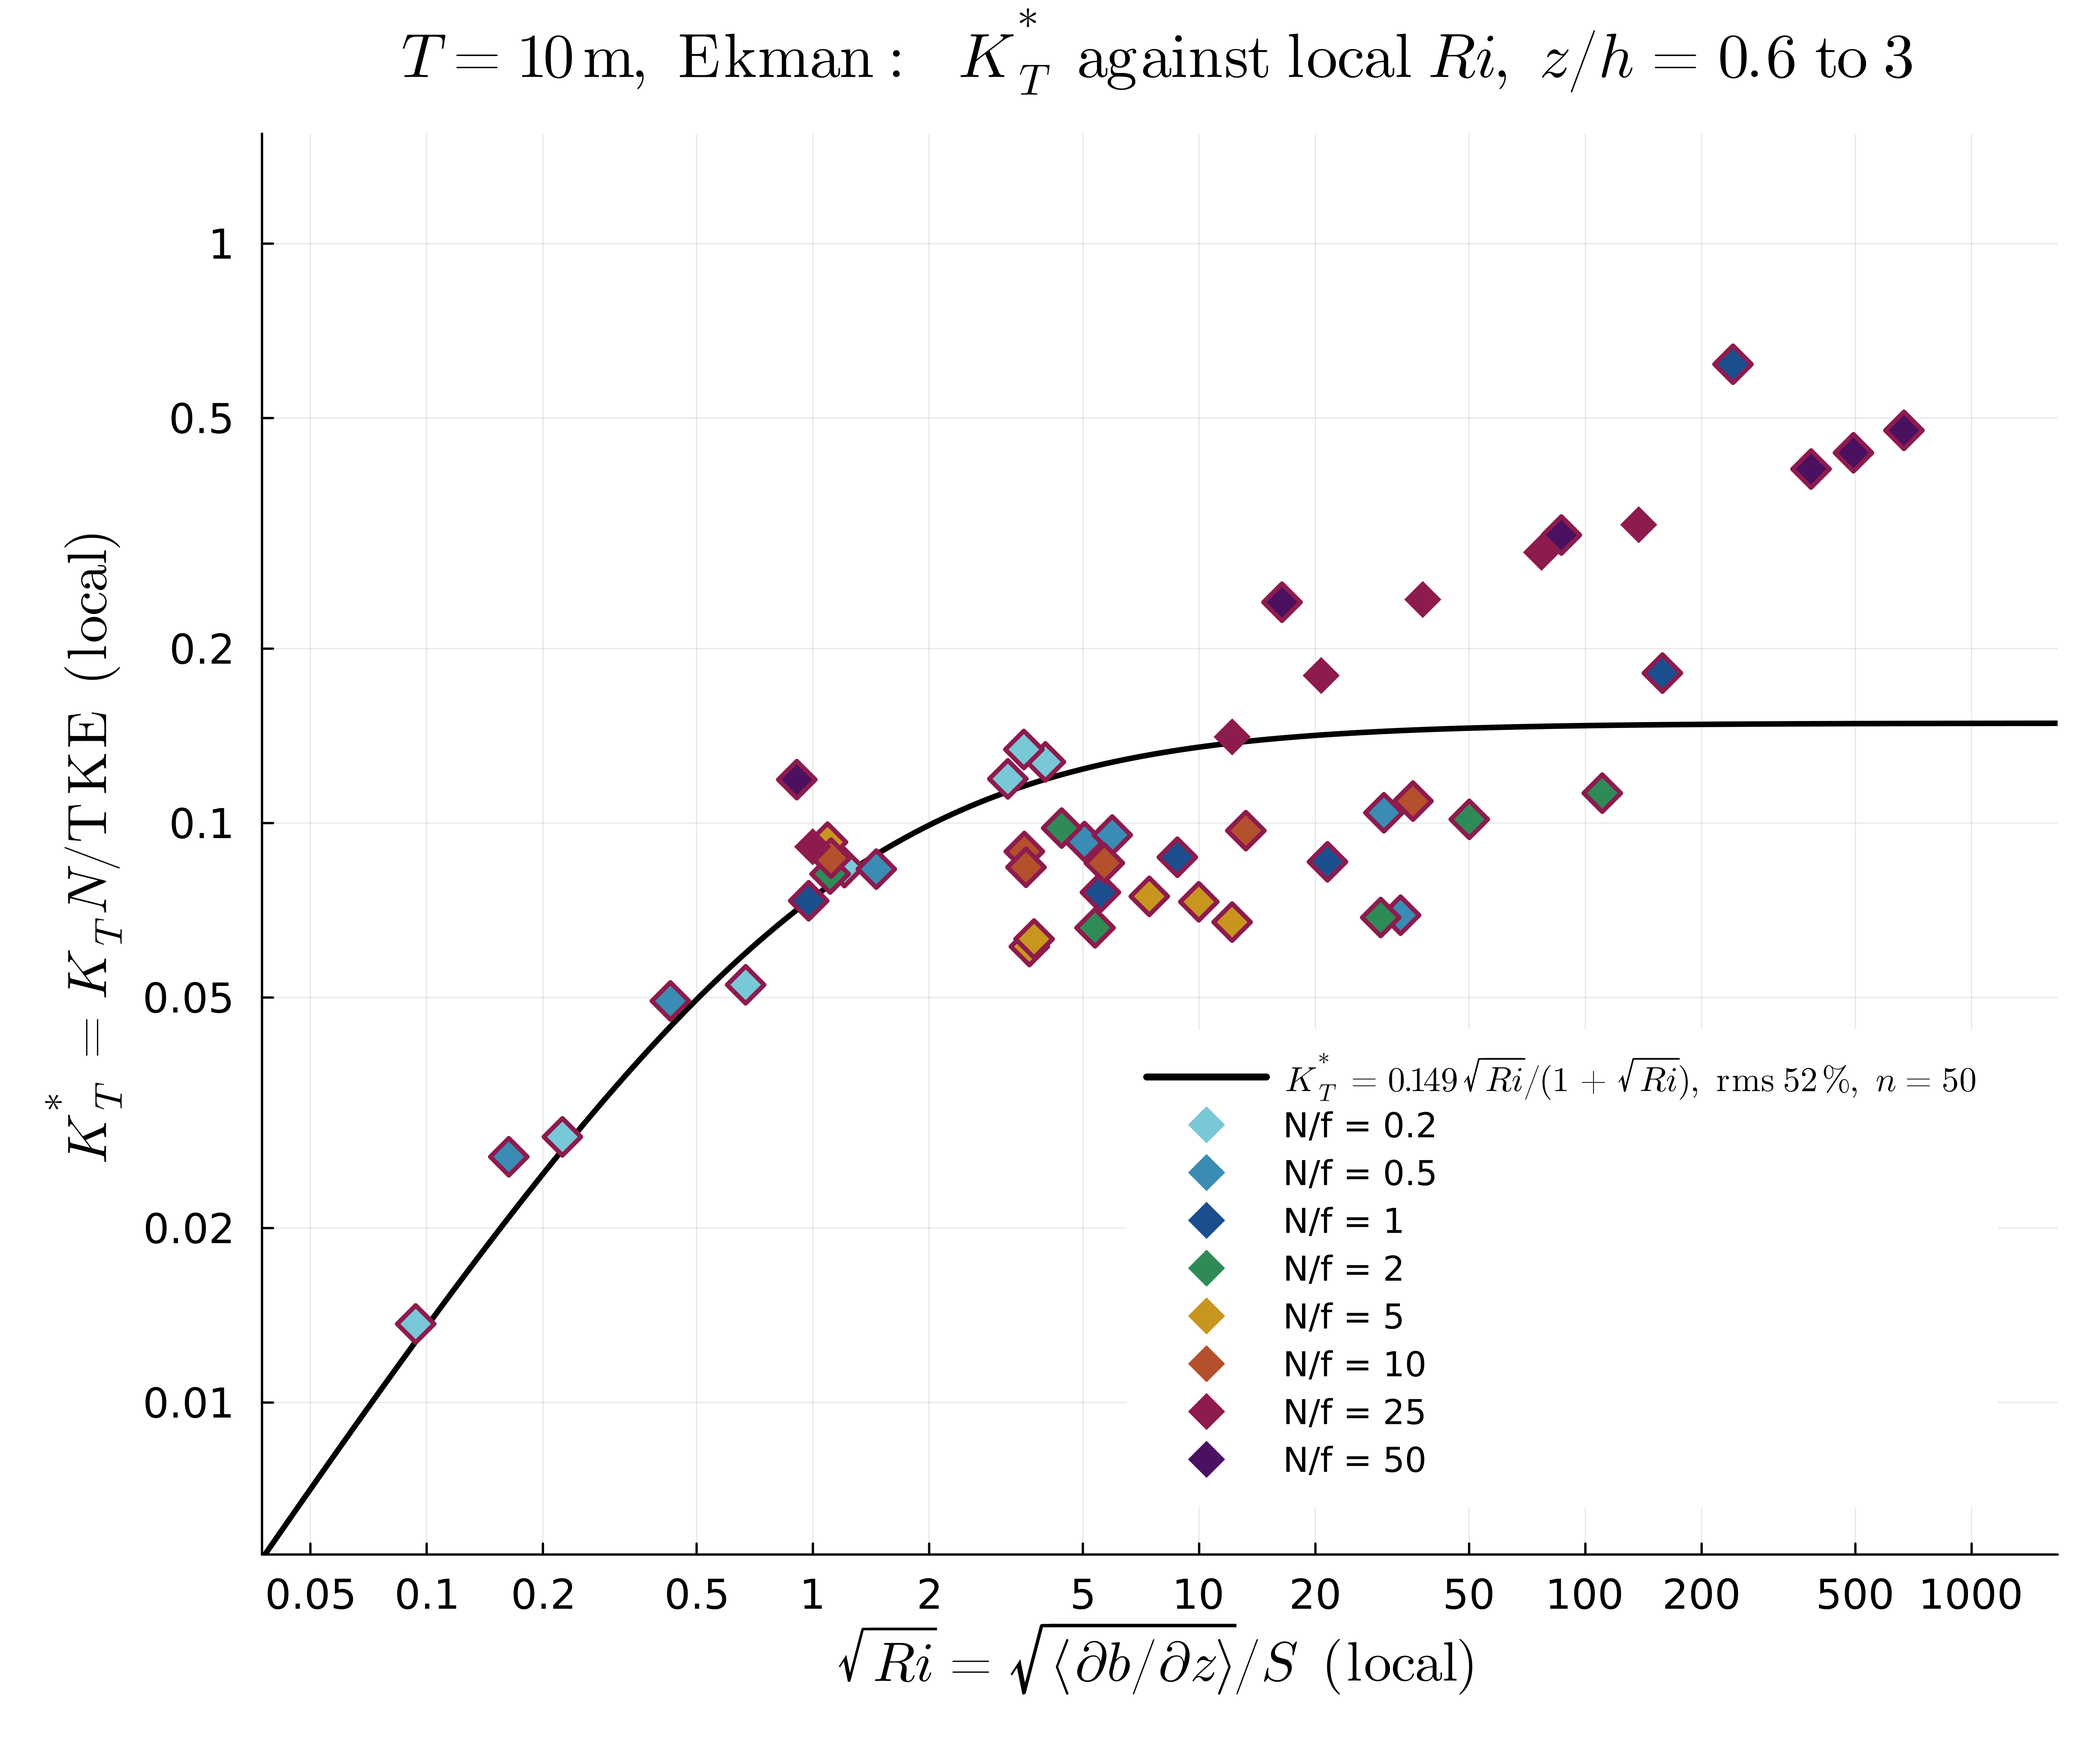
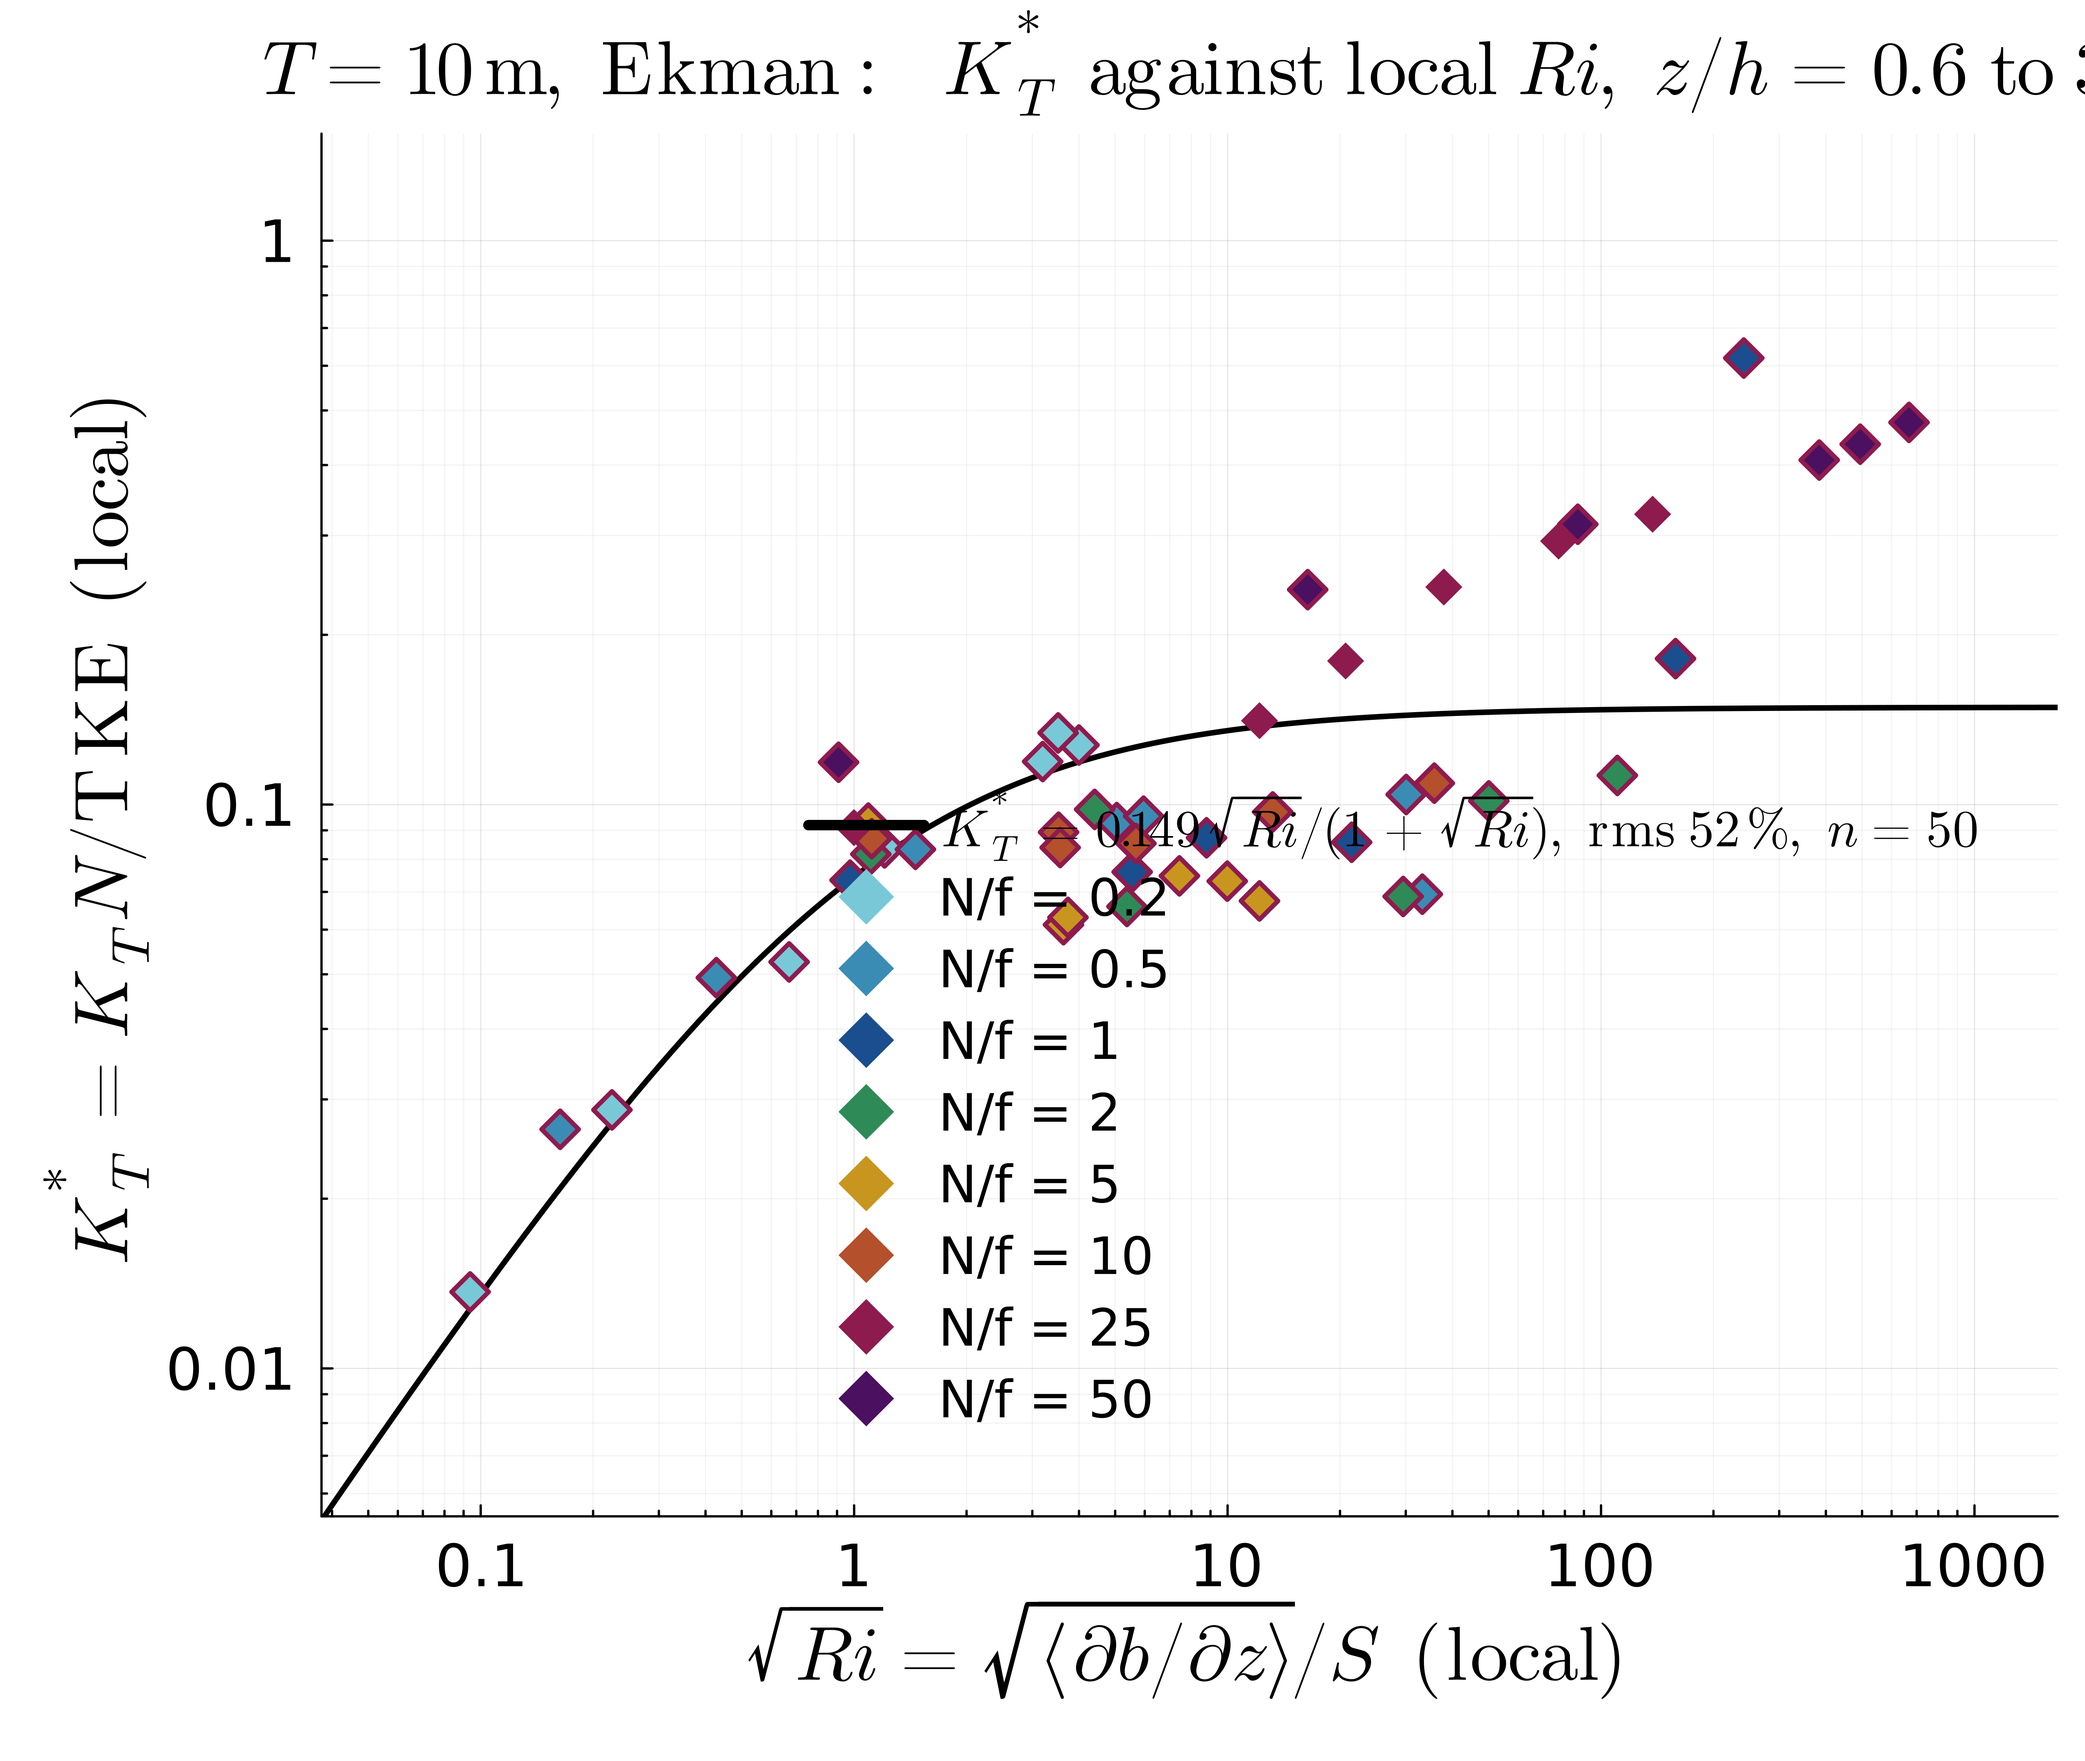
adding minor lines to figures

diff --git a/Combined/README.md b/Combined/README.md
@@ -659,6 +659,17 @@ title 18, annotations 9 — so they read on a slide. On
 `KTstar_vs_Ri_zscan_T10.png` that crowded the 1-2-5 x ticks over eight decades
 into each other, so that axis is ticked at decades only.
 
+**Enlarged again 2026-10-11** for the slide figures: `plot_KTstar_Ri_stokes_T10.jl`,
+`plot_KTstar_Ri_zscan_ekman_T10.jl` and `plot_growth_T10.jl` now use axis labels
+22, ticks 17, legend 15, title 22 (20 on the growth plots). Knock-ons: the Ekman
+z-scan x axis is ticked at decades only; its legend background is transparent
+and the lowr figure's legend sits top-left, where it hid no points; the growth
+legends moved to the empty bottom-right. The `ekman` and `zscan` K_T* scripts
+are still at 16/12/10/18. Same day: those figures label decades only on log
+axes (y extended to 1 on the Stokes K_T* plot so it has three labels), growth
+time axis labelled every 10² up to 10¹⁰, h every 10 m, and all five carry a
+minor grid (`minorgrid = true`; `minorticks = 9` per decade on the K_T* axes).
+
 ### The height scan, Ekman only — `plot/plot_KTstar_Ri_zscan_ekman_T10.jl`
 
 ```
@@ -1101,6 +1112,15 @@ the Stokes LES has a pycnocline at `z = T = 10 m` that the model does not
 (uniform N), and at low N `√Ri` at h is small so a fixed `Ri` is the weakest
 assumption there. The exponential also overestimates Stokes TKE(h) at high N
 (stage-2 note), which this check does not show because it acts late.
+
+**How much the fixed-Ri choice can matter (2026-10-11).** K_T* is bounded by A,
+so no Ri(h) model can speed growth by more than `(1+√Ri)/√Ri` over the fixed-Ri
+curves: ×16 at Stokes r = 0.2, ×2.4 at r = 1, ≤ ×1.3 for r ≥ 5; Ekman ×5.4 at
+r = 0.2, ≈ ×2 otherwise. Against the eˣ growth of t(h) that does not move the
+stall. **A candidate S(h):** the shear implied at h, `S = N/√Ri`, matches the
+log-layer `u_*/(κh)` to within ×0.5–1.5 on all eight Stokes runs (×1.0 at
+r = 0.2, 0.5, 50), which would give `Ri(h) = (Nκh/u_*)²`. Not adopted yet;
+untested on Ekman, whose z-scan Ri uses the local gradient, not background N.
 
 ### Stage 3 — the δ model for K_T
 

diff --git a/Combined/HANDOVER.md b/Combined/HANDOVER.md
@@ -72,8 +72,11 @@ STANDING RULES:
 - Every plotting script opens with default(dpi = 600, fontfamily = "DejaVu
   Sans") and uses LaTeXStrings for all labels. The four K_T* scripts also set
   guidefontsize 16, tickfontsize 12, legendfontsize 10, plot_titlefontsize 18
-  and annotation text 9 (enlarged 2026-10-07); new nondimensional figures
-  should match.
+  and annotation text 9 (enlarged 2026-10-07). The slide figures
+  (KTstar stokes, KTstar zscan_ekman, growth) were enlarged again 2026-10-11
+  to guide 22, tick 17, legend 15, title 22 (growth 20); check legends for
+  overlap after any further size change. Since 2026-10-11 they also label
+  decades only and have a minor grid.
 
 WHERE THINGS STAND:
 The sweep is 16 cases — Stokes and Ekman each at r = 0.2, 0.5, 1, 2, 5, 10, 25,
@@ -188,7 +191,8 @@ and tables/growth_times_T10.tex (time to h = 10..60 m). sqrt(Ri) at h is HELD
 FIXED per run (no S(h) model) and constants are hard-coded from the TKE-fit and
 K_T* logs — update them if those are rerun. Times past a few delta are
 extrapolation. Model h at run end matches LES within 5 % at high N, 30-70 %
-too deep at low N.
+too deep at low N. Ri(h) candidate found 2026-10-11: S at h ~ u_*/(kappa h)
+(within x0.5-1.5, Stokes), Ri = (N kappa h/u_*)^2 — not yet used.
 
 2026-10-09: KTstar_vs_Ri_stokes_T10.png and ..._zscan_ekman_lowr_T10.png
 trimmed for slides (no rms or n in legends, no caveat note, shorter Stokes title,
